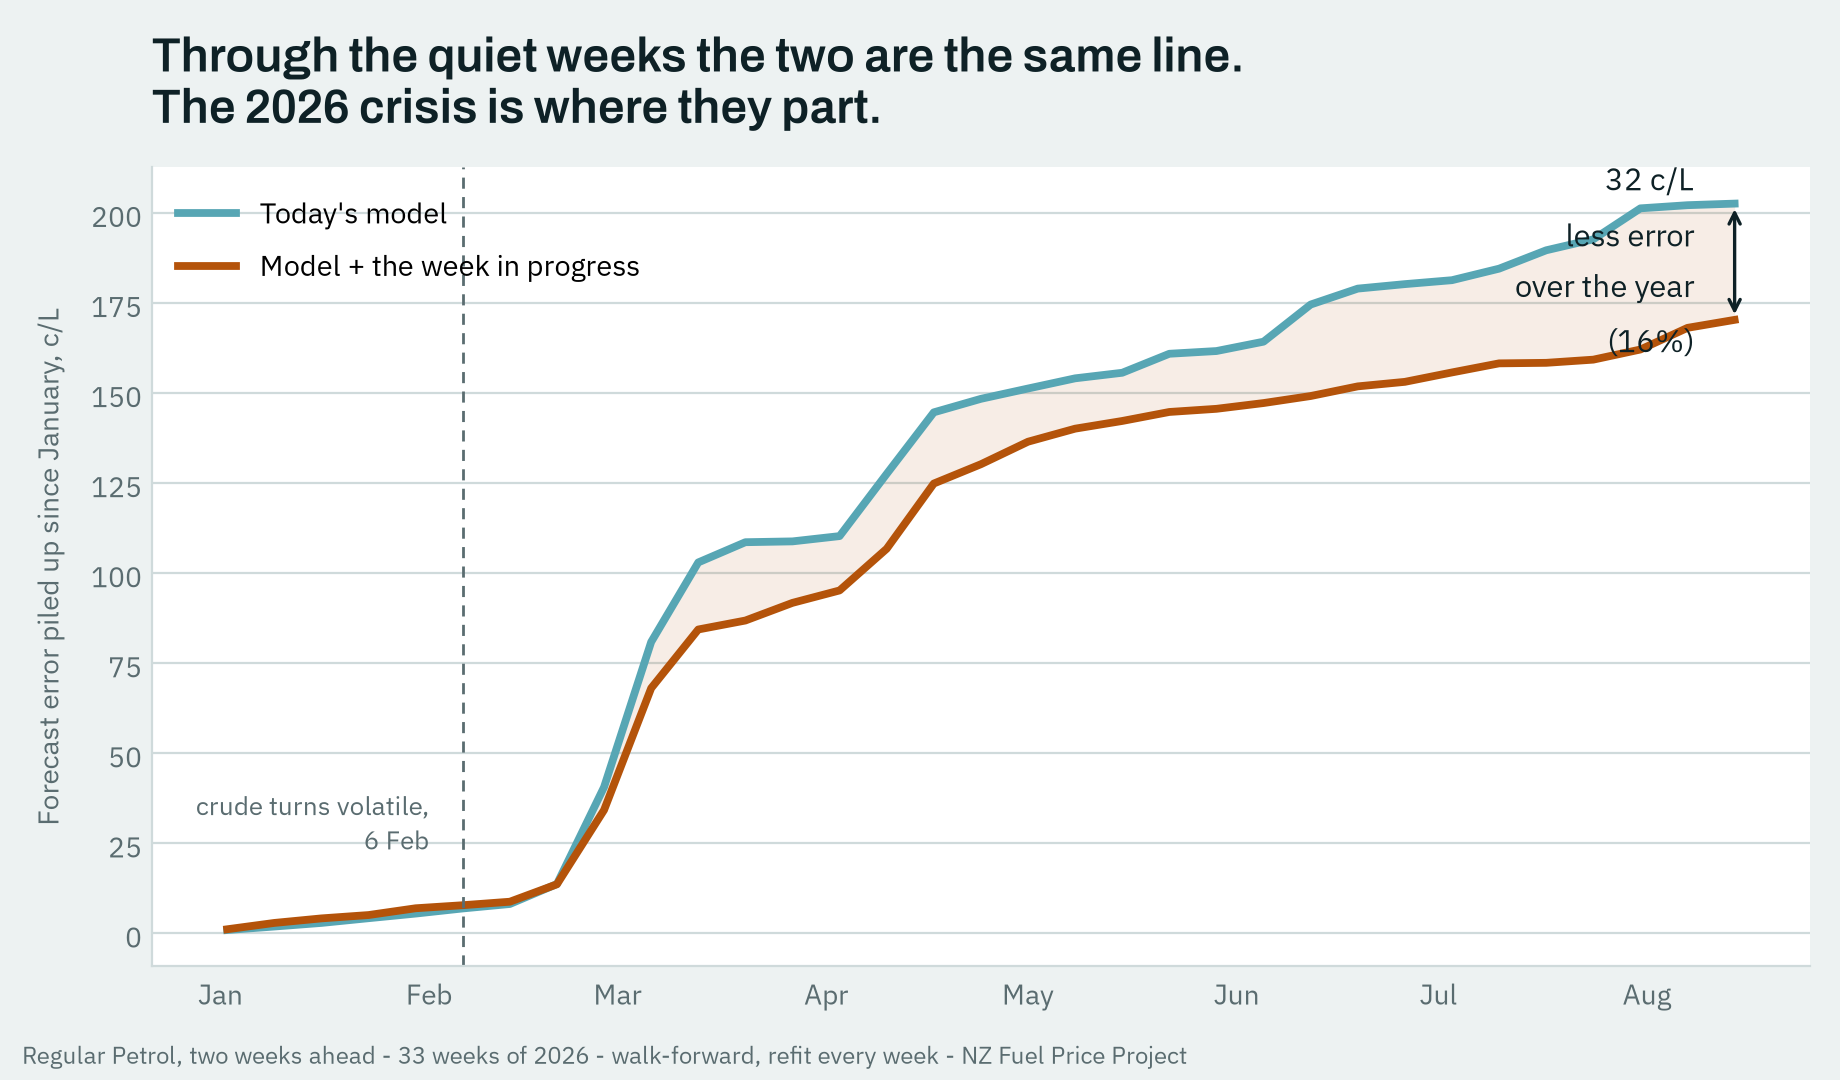
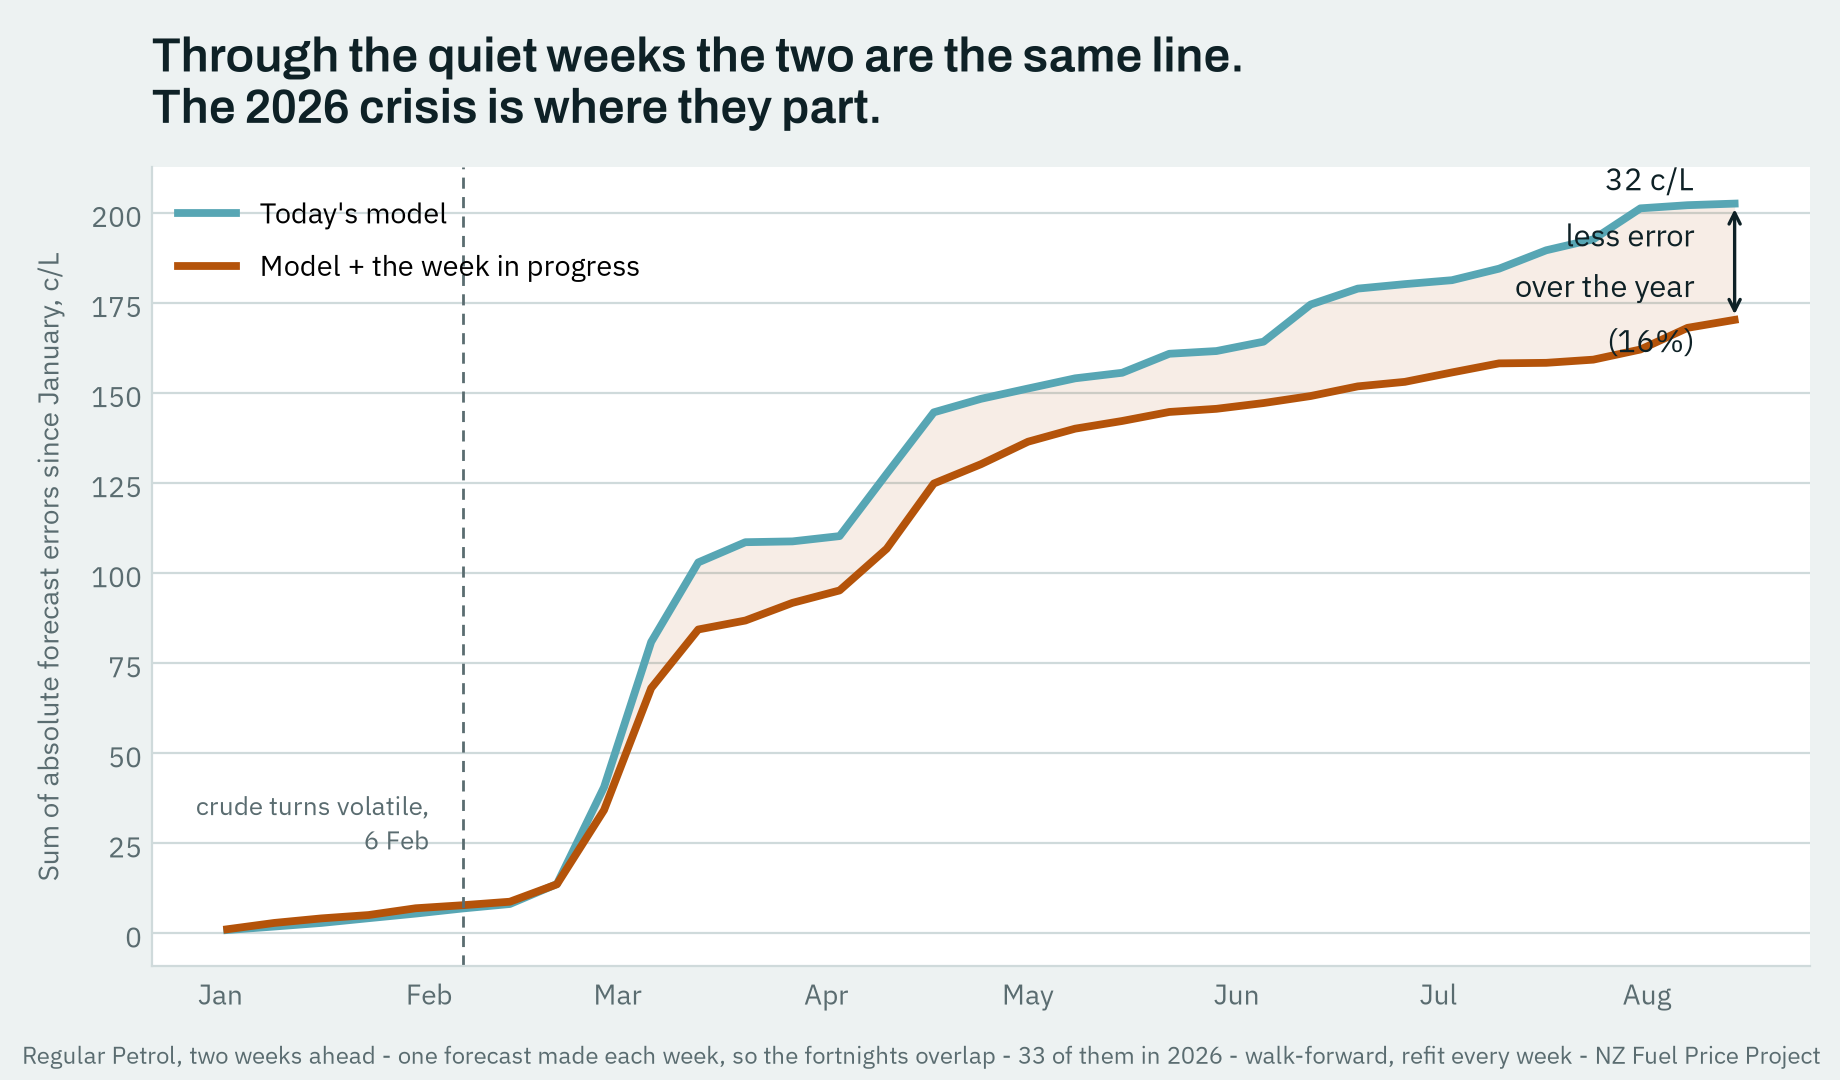
Подпись оси допускала чтение «накопленное среднее»
На оси лежит running sum абсолютных ошибок, без усреднения, но формулировка
«error piled up since January» одинаково хорошо читалась и как накопленное
среднее. Теперь написано полностью: sum of absolute forecast errors.

Заодно сказано то, о чём подпись молчала: прогноз делается каждую неделю и
каждый накрывает две недели, поэтому окна перекрываются и 33 ошибки не
независимы. Для скользящего бэктеста это норма, но читатель не обязан
догадываться.

Changed region(s): [[0.2168, 0.9472, 0.9913, 1.0], [0.0, 0.275, 0.031, 0.6722], [0.0, 0.7028, 0.031, 0.7639]]

diff --git a/research/art/nowcast_chart.py b/research/art/nowcast_chart.py
@@ -75,6 +75,8 @@ def main() -> None:
 
     gap = d.was.iloc[-1] - d.now.iloc[-1]
     pct = gap / d.was.iloc[-1] * 100
+    print(f"sum |error|: was {d.was.iloc[-1]:.1f}, now {d.now.iloc[-1]:.1f}, "
+          f"gap {gap:.1f} c/L over {len(d)} forecasts")
     ax.annotate("", xy=(d.date.iloc[-1], d.now.iloc[-1]),
                 xytext=(d.date.iloc[-1], d.was.iloc[-1]),
                 arrowprops=dict(arrowstyle="<->", color=INK, lw=1.2))
@@ -85,7 +87,9 @@ def main() -> None:
 
     ax.xaxis.set_major_locator(mdates.MonthLocator())
     ax.xaxis.set_major_formatter(mdates.DateFormatter("%b"))
-    ax.set_ylabel("Forecast error piled up since January, c/L",
+    # Spelled out rather than shortened: "error piled up" reads equally well
+    # as a running mean, and this is a running SUM of absolute errors.
+    ax.set_ylabel("Sum of absolute forecast errors since January, c/L",
                   color=MUTED, labelpad=9)
     ax.tick_params(colors=MUTED, length=0)
     ax.set_title("Through the quiet weeks the two are the same line.\n"
@@ -94,7 +98,8 @@ def main() -> None:
     ax.legend(frameon=False, loc="upper left", fontsize=10.5)
 
     fig.text(0.012, 0.015,
-             f"{FUEL}, two weeks ahead - {len(d)} weeks of {YEAR} - "
+             f"{FUEL}, two weeks ahead - one forecast made each week, so the "
+             f"fortnights overlap - {len(d)} of them in {YEAR} - "
              "walk-forward, refit every week - NZ Fuel Price Project",
              fontsize=8.5, color=MUTED)
 

diff --git a/docs/draft_part9.md b/docs/draft_part9.md
@@ -19,12 +19,21 @@ Numbers: `docs/research.md`, "The week in progress is partly visible" and
 
 ## The picture
 
-Two cumulative error curves through 2026 for Regular Petrol at two weeks
-ahead: today's model, and the same model told what the week in progress has
-done so far. Cumulative rather than week-by-week, because the weekly version
-is a sawtooth. Five quiet weeks in January where the lines are one line, then
-the Iran-US episode from 6 February where they part. Ends 202.5 against
-170.3 c/L — 32 c/L, 16%.
+Two curves through 2026 for Regular Petrol at two weeks ahead: today's model,
+and the same model told what the week in progress has done so far. The y axis
+is the **running sum of absolute errors** — every week's |forecast − actual|
+added on, no averaging — and the label says so in full, because "error piled
+up" read equally well as a running mean. Cumulative rather than week-by-week,
+because the weekly version is a sawtooth.
+
+One forecast is made each week and each covers a fortnight, so the windows
+overlap and the 33 errors are not independent. That is standard for a rolling
+backtest and is stated in the footer rather than left for a reader to work
+out.
+
+Five quiet weeks in January where the lines are one line, then the Iran-US
+episode from 6 February where they part. Ends 202.5 against 170.3 c/L —
+32.3 c/L, 16%.
 
 ## The draft, ~1,300 characters
 
